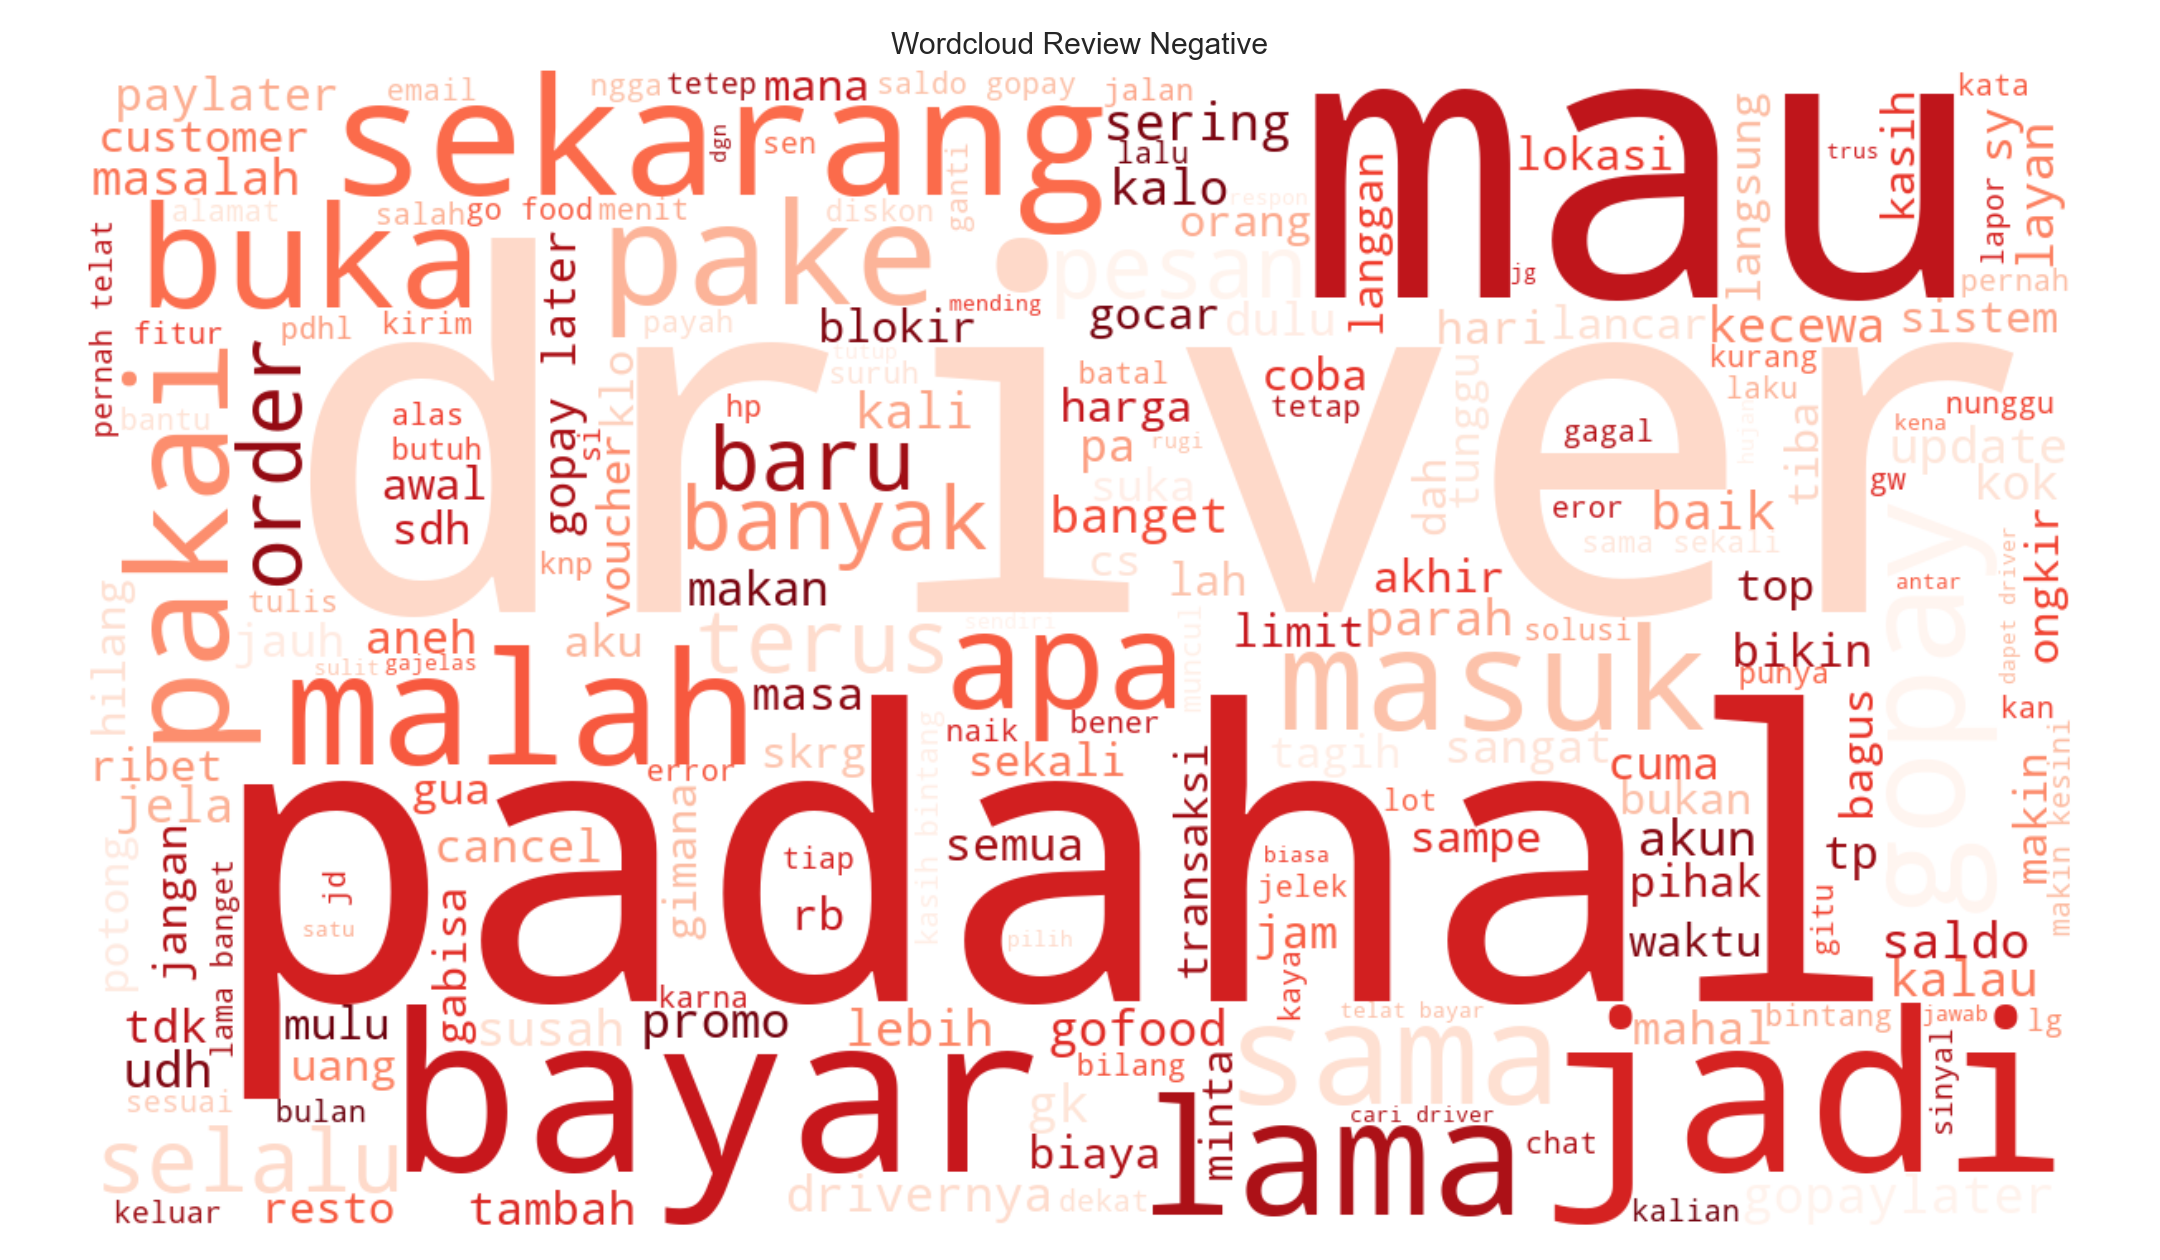
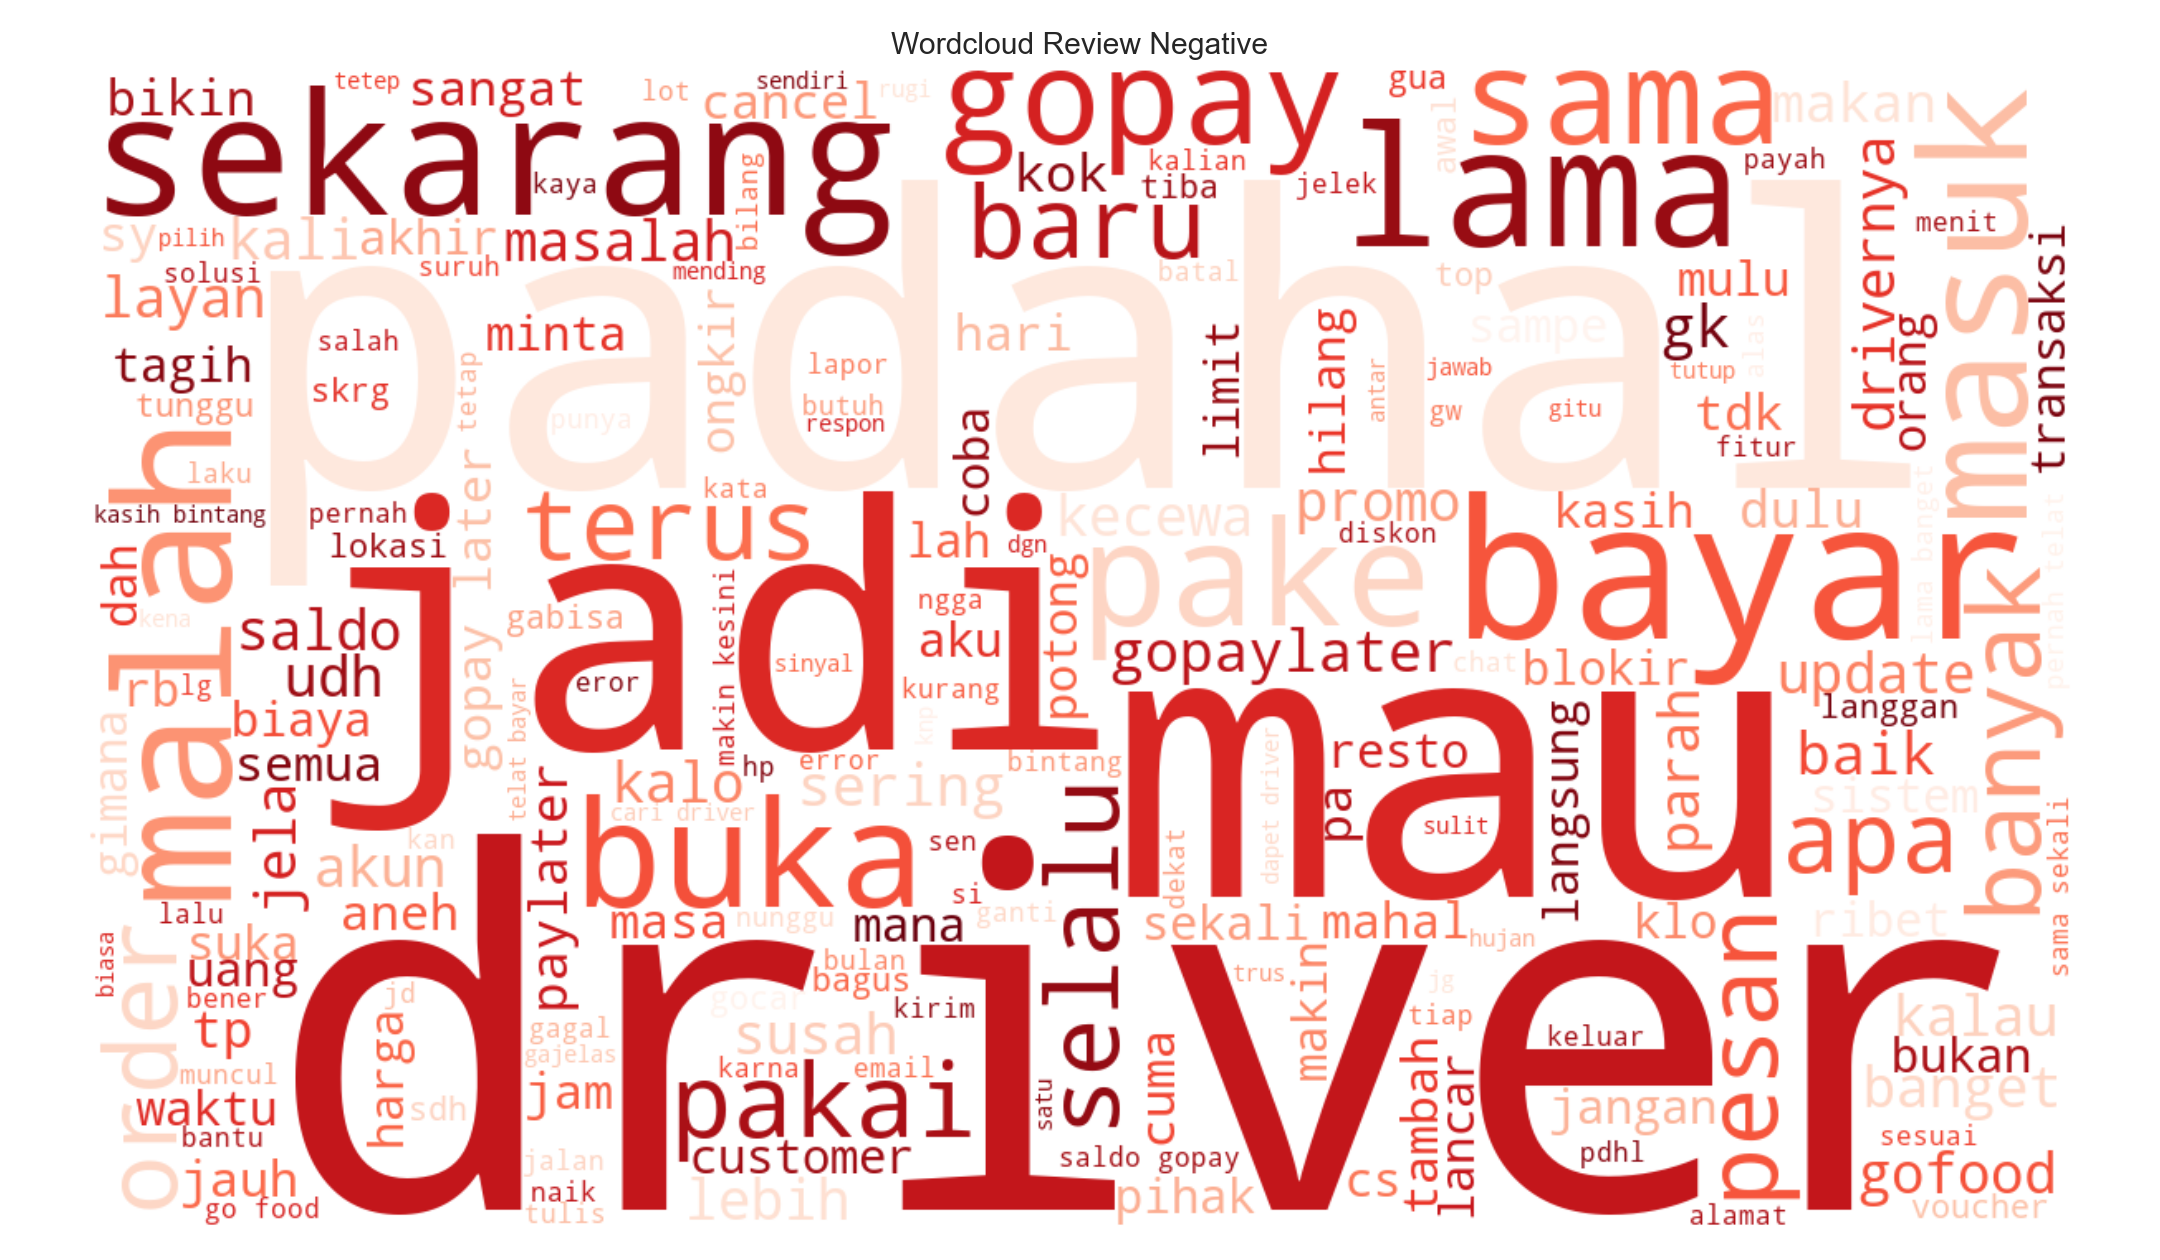
Update sentiment model artifacts and insights

diff --git a/output/reports/business_insights.md b/output/reports/business_insights.md
@@ -1,30 +1,30 @@
 # Gojek Review Insight Summary
 
-## Dataset Summary
+## Ringkasan Dataset
 
-- Total reviews after preprocessing: `6,152`
-- Sentiment distribution: `{'positive': 3131, 'negative': 2670, 'neutral': 351}`
-- Best model by F1-score: `Naive Bayes`
-- Best F1-score: `0.8818`
+- Total review setelah preprocessing: `6,152`
+- Distribusi sentimen: `{'positive': 3131, 'negative': 2670, 'neutral': 351}`
+- Model terbaik berdasarkan F1-score: `Naive Bayes`
+- F1-score terbaik: `0.8818`
 
-## Main User Complaints
+## Keluhan Utama Pengguna
 
-The most frequent terms in negative reviews point to themes such as: `driver, makin, gopay, mau, padahal, lama, bayar, malah`.
-In practice, these terms usually relate to app performance issues, login friction, promotions, payments, or inconsistent ordering experiences.
+Kata yang paling sering muncul pada review negatif mengarah ke tema seperti: `driver, makin, gopay, mau, padahal, lama, bayar, malah`.
+Secara praktis, ini biasanya berkaitan dengan masalah performa aplikasi, proses login, promo, pembayaran, atau pengalaman pemesanan yang tidak konsisten.
 
-## Positive Experience Drivers
+## Aspek yang Disukai Pengguna
 
-Positive reviews more often highlight terms such as: `sangat, bantu, bagus, baik, mudah, mantap, cepat, banyak`.
-This typically reflects appreciation for ease of use, service speed, attractive promotions, and the app's practical value in daily activities.
+Review positif lebih sering menonjolkan kata seperti: `sangat, bantu, bagus, baik, mudah, mantap, cepat, banyak`.
+Ini biasanya menunjukkan apresiasi pengguna terhadap kemudahan penggunaan, kecepatan layanan, promo yang menarik, dan manfaat aplikasi dalam aktivitas harian.
 
 ## Error Analysis
 
-- Number of reviews misclassified by the best model: `140`
-- Common failure patterns: mixed praise-and-complaint reviews, slang-heavy language, typos, and sarcastic phrasing.
+- Jumlah review yang salah diprediksi model terbaik: `140`
+- Pola umum kesalahan: review bercampur antara pujian dan keluhan, bahasa gaul, typo, dan konteks sarkastik.
 
-## Business Recommendations
+## Rekomendasi Bisnis
 
-1. Prioritize investigation into the most dominant negative themes shown in `top_terms.csv` and `wordcloud_negative.png`.
-2. Audit the user journey in the areas most frequently criticized, such as payments, promotions, and application stability.
-3. Preserve the features users consistently praise and turn them into product communication strengths.
-4. Use misclassified reviews as an additional source for expanding the Indonesian slang normalization dictionary.
+1. Prioritaskan investigasi pada tema negatif yang paling dominan di `top_terms.csv` dan `wordcloud_negative.png`.
+2. Audit perjalanan pengguna pada area yang paling sering dikeluhkan seperti pembayaran, promo, atau stabilitas aplikasi.
+3. Pertahankan elemen yang sering dipuji pengguna dan jadikan itu bahan komunikasi produk.
+4. Gunakan review salah prediksi sebagai sumber tambahan untuk memperkaya kamus normalisasi slang Bahasa Indonesia.